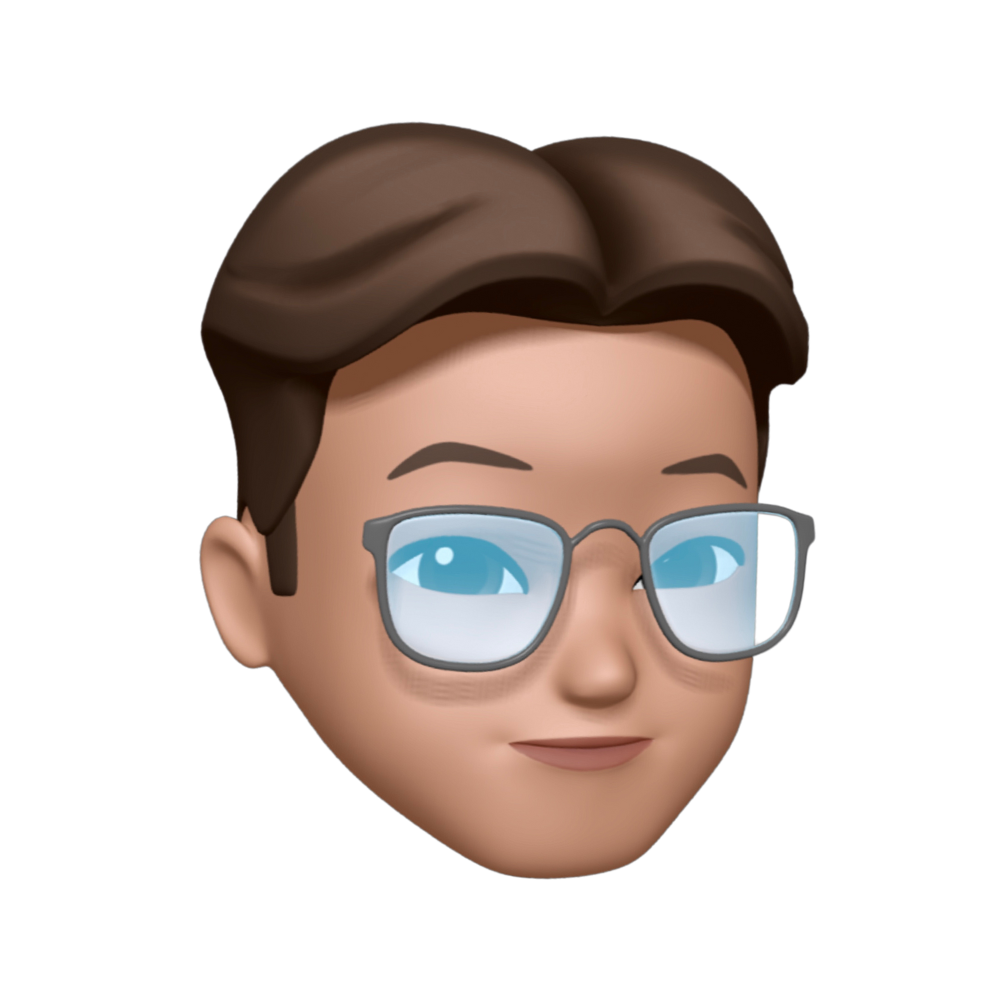
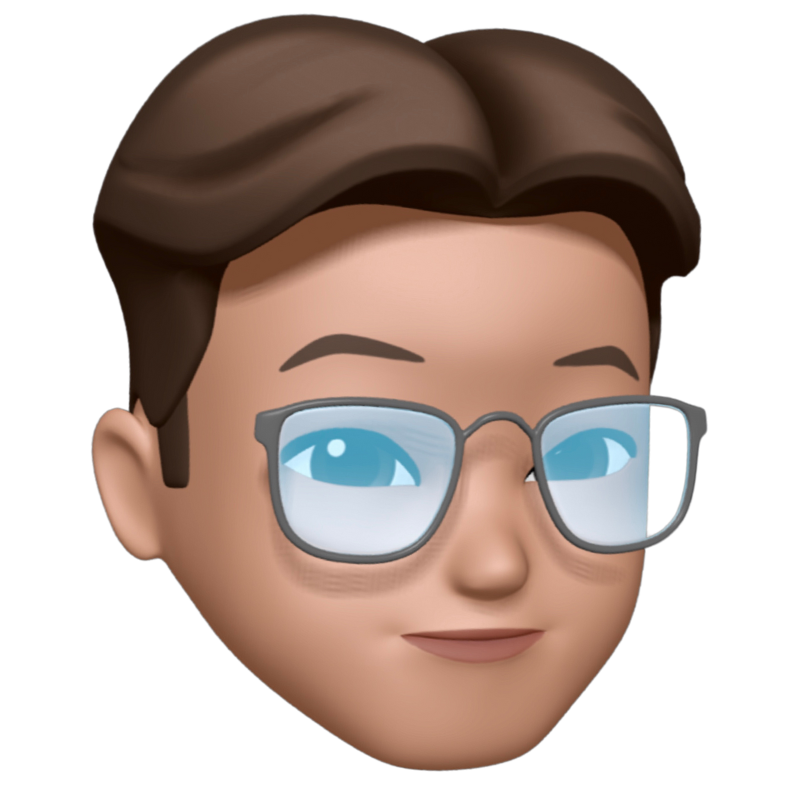
update

diff --git a/static/css/style.css b/static/css/style.css
@@ -72,7 +72,8 @@
    */
 
   /* font-family */
-  --ff-poppins: 'Poppins', sans-serif;
+  --ff-poppins: ui-monospace, SFMono-Regular, Menlo, Monaco, Consolas,
+                "Liberation Mono", "Courier New", monospace;
 
   /* font-size */
   --fs-1: 24px;
@@ -344,9 +345,10 @@ main {
 
 .info-content .title {
   color: var(--white-1);
-  background: var(--onyx);
-  font-size: var(--fs-8);
+  /* background: var(--onyx); */
+  font-size: var(--fs-5);
   font-weight: var(--fw-300);
+  font-style: italic;
   width: max-content;
   padding: 3px 12px;
   border-radius: 8px;
@@ -503,6 +505,8 @@ main {
 }
 
 .about-text p { 
+  margin-left: 15px;
+  margin-right: 15px;
   margin-bottom: 15px;
   text-align: justify;
 }
@@ -1249,9 +1253,9 @@ main {
 
   .avatar-box img { width: 120px; }
 
-  .info-content .name { margin-bottom: 15px; }
+  .info-content .name { margin-bottom: 10px; }
 
-  .info-content .title { padding: 5px 18px; }
+  .info-content .title { padding: 5px 0px; }
 
   .info_more-btn {
     top: -30px;

diff --git a/index.html b/index.html
@@ -46,14 +46,15 @@
 
       <div class="sidebar-info">
 
-        <figure class="avatar-box">
-          <img src="./assets/profiles/my-avatar.png" alt="Elvern Neylmav T" width="80">
+        <!-- <figure class="avatar-box"> -->
+        <figure>
+          <img src="./assets/profiles/my-avatar.png" alt="Elvern Neylmav T" width="110">
         </figure>
 
         <div class="info-content">
           <h1 class="name" title="Elvern Neylmav T">Elvern Neylmav T</h1>
 
-          <p class="title">Graduate CS Student</p>
+          <p class="title">Computer Scientist</p>
         </div>
 
         <button class="info_more-btn" data-sidebar-btn>
